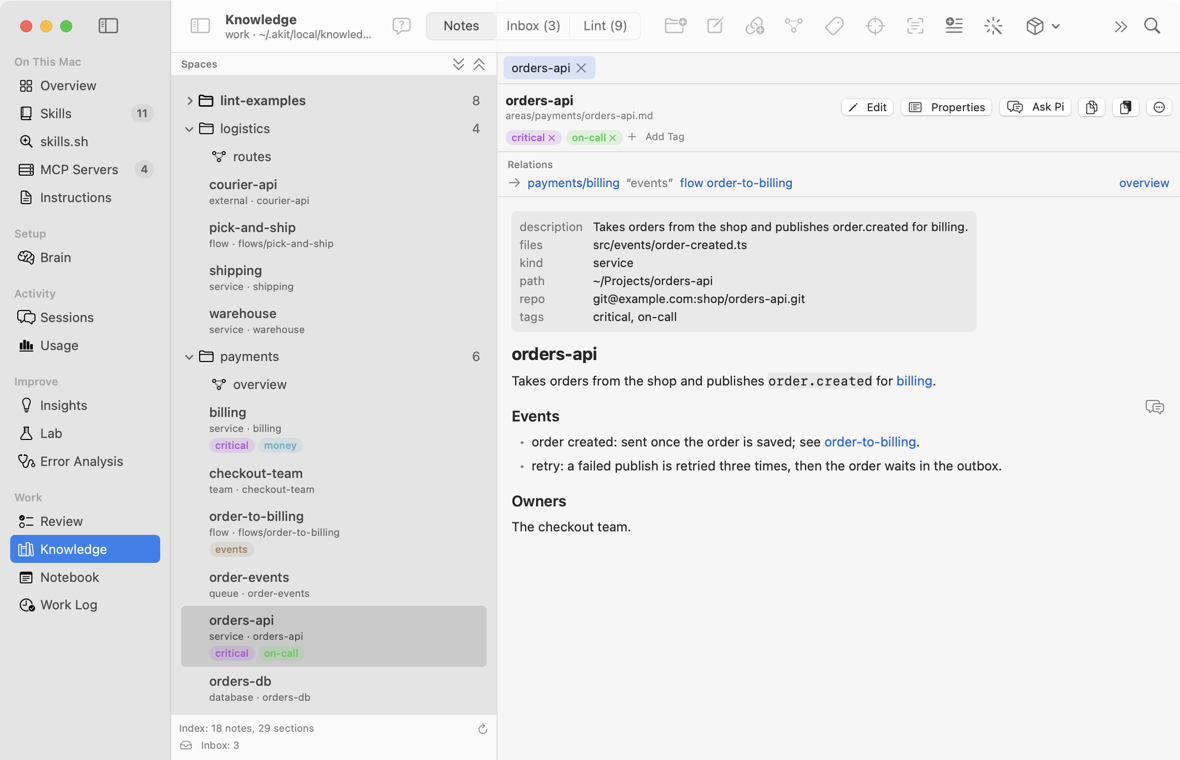
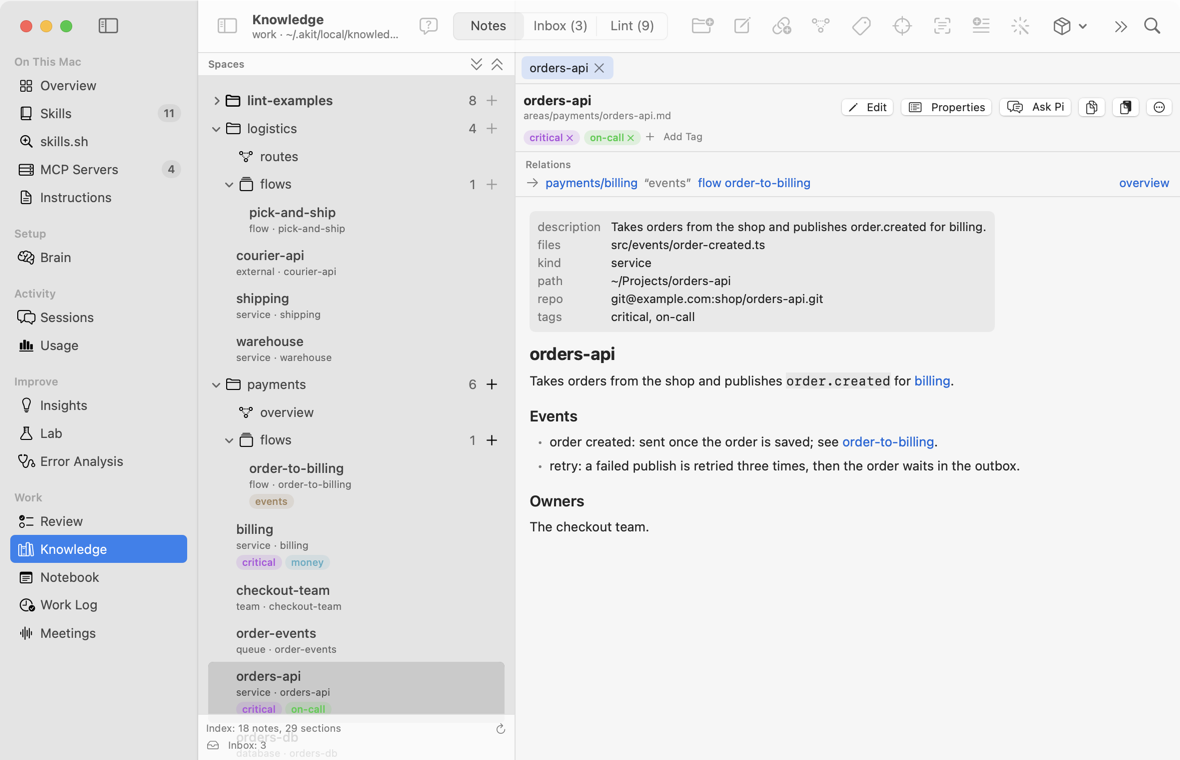
Knowledge: note rows keep one tag line, so rows never overlap
A note with many tags wrapped them, so its row's height followed the
list's width; the list kept the old height and drew the row over its
neighbours. Tags now take one line, the rest as +N.

diff --git a/AKit/Knowledge/TagViews.swift b/AKit/Knowledge/TagViews.swift
@@ -33,6 +33,29 @@ struct TagBadge: View {
 }
 
 /// Lays its views out in rows, starting a new row when the next one doesn't fit.
+/// A note row's tags on one line: as many as fit, the rest as "+N". The list keeps a row's
+/// height from before a resize, so a row whose height follows its width (tags wrapping) was drawn
+/// over its neighbours; one line is always the same height.
+struct TagLine: View {
+    let tags: [String]
+
+    var body: some View {
+        ViewThatFits(in: .horizontal) {
+            ForEach(Array(stride(from: tags.count, through: 0, by: -1)), id: \.self) { shown in
+                HStack(spacing: 3) {
+                    ForEach(tags.prefix(shown), id: \.self) { TagBadge(tag: $0) }
+                    if shown < tags.count {
+                        Text("+\(tags.count - shown)").font(.caption2).foregroundStyle(.secondary).fixedSize()
+                    }
+                }
+                .fixedSize()
+            }
+        }
+        .frame(maxWidth: .infinity, alignment: .leading)
+        .help(tags.map { "#" + $0 }.joined(separator: " "))
+    }
+}
+
 struct WrapLayout: Layout {
     var spacing: CGFloat = 4
 

diff --git a/AKit/Knowledge/KnowledgeView.swift b/AKit/Knowledge/KnowledgeView.swift
@@ -451,10 +451,7 @@ struct KnowledgeView: View {
             Text([note.kind, note.id.split(separator: "/").dropFirst(note.group == nil ? 1 : 2).joined(separator: "/")].compactMap(\.self).joined(separator: " · "))
                 .font(.caption).foregroundStyle(.secondary).lineLimit(1)
             if !note.tags.isEmpty {
-                WrapLayout(spacing: 3) {
-                    ForEach(note.tags, id: \.self) { TagBadge(tag: $0) }
-                }
-                .padding(.top, 1)
+                TagLine(tags: note.tags).padding(.top, 1)
             }
         }
         .padding(.vertical, 2)

diff --git a/docs/design/knowledge.md b/docs/design/knowledge.md
@@ -77,7 +77,7 @@ describe the system once, by hand, and let the agent read it.
 | K32 | Pi proposes changes from Ask Pi | Added 2026-10-31 at the user's request: in Ask Pi, Pi may change the base, but only as a proposal the user approves after seeing the diff: the existing `akit kb propose` flow (K14). The system prompt (replacing K30's "change nothing") says: never edit, write, move or delete files and don't commit; when the user asks to change, fix or add something in the base (or agrees that the note is wrong), run `akit kb propose --base <base> --author pi --note AREA/NAME --stdin --reason …` (for an existing note the changed `## Heading` sections, as the proposal format requires; for a new note its whole text; `--set` for a field) or `--arrow`. `--exclude-tools edit,write` stays. An answer's proposals are those new in `inbox/` since the question was sent **and** named in that answer's own json stream (the propose output prints the id), so another session's proposal never shows; their ids are stored in the entry (`proposals` in `chat.jsonl`). Each shows as a card under the answer: target, reason, checks, the diff Accept writes, and Accept… / Reject… / Show in Inbox, the Inbox's own actions and confirmations; after Accept the open note reloads. A card follows its proposal: pending while it is in `inbox/`, else Accepted (a commit "(accept proposal ID)" or "Close proposal ID") or Rejected or removed (`KnowledgeBase.state(ofProposal:)`). Also: the note header never cuts a label: `ViewThatFits` shows Copy, Paste, Open in Obsidian, Rename…, Delete… titled, else Copy and Paste as icons and the rest in a **More** menu, else all in the menu; Edit, Properties and Ask Pi stay titled |
 | K33 | Ask Pi review fixes | 2026-10-31, after a review of K29–K32: Open in Pi's script prints the note id with `printf '%s\n'` and a quoted argument (no id in a comment), so a hostile file name runs nothing. On a work Mac, when Pi runs in a space's project folder (not the base folder), the destination must also pass `.code(.pi)` (the allowed list): the project's code could reach it; else nothing is sent and the message says to pick an allowed provider. Every Ask Pi that started Pi is in the send log (also stopped or timed out), with the system prompt counted. Pi's streams are masked as JSON (`JSONMask`, moved down from `ReviewMask`), and Review and Ask Pi share one Pi runner (`PiJSONStream.run`). The panel puts a refused question back only into the chat it was asked in, and a title change of the open note doesn't stop Pi. A space dragged down goes after the one it is dropped on (`move(space:onto:)`), `.spaces.json` is written inside the base's git lock, a space deleted while the order can't be written is still committed (the message says so), and fold state of spaces that are gone isn't saved. Round 2: proposal ids are reused once a proposal leaves `inbox/`, so an answer stores each proposal as `{id, created}` (old plain ids still read); a card binds only to the inbox file with that `created`, and counts it accepted only by the oldest accept commit at or after `created` and before the chat's next proposal with that id (`state(ofProposal:created:before:)`). An answer's proposals are only the `inbox/<id>.md` paths printed by its own `bash` calls that ran `kb propose` (matched by call id), and new since the question (a plain file listing, no checks). The base folder in the system prompt is shell-quoted. A space's deletion writes the order under the git lock. A question still stopping in a chat you left shows only there |
 | K34 | Ask Pi log and thinking | Added 2026-10-31 at the user's request. **Log…** under each answer, and in the panel header for the whole chat, opens **Ask Pi Log**: how Pi was called and what it did. Each question writes `streams/qN.call.json` (masked): the arguments as run (the last one the prompt sent), working folder, model, thinking, fork and session files, start, end, exit status, error, usage, and when each tool call started and ended (noted as the stream's lines arrive). `KnowledgeAskLog` (AKitLab) reads the saved stream into steps: tool calls (start and end matched by `toolCallId`, else by tool name, else order) with arguments, result, error and time; the assistant's text and thinking; a model error. Copy Full Log (plain, masked, uncut), Show in Finder (the chat folder), Open Stream. Answers saved before show their stream without a call record. A **Thinking** picker beside Model passes `--thinking`; the level is remembered per model (`knowledgeAsk.thinkingByModel`), a model never used gets Lab's default Pi level (else `medium`). Each answer stores its model and thinking (shown under it). After review: what Pi read from a file that usually holds secrets (`SecretFilter.isSecretFile`: `.env`, `auth.json`, Pi's `mcp.json`…) is hidden as the session viewers do (`PiSecretFiles`), before the stream reaches the disk and again when it is read; `JSONMask` masks a value whose key names a secret (api key, token, secret, password, credential, authorization, cookie), in Review too. Tool times are kept by `toolCallId`; an end with no start is its own step; results are kept up to 200,000 characters in the sheet (Copy Full Log rereads them whole, off the main thread); a question never overwrites the files of one whose entry wasn't saved. After verification: every result shape of a secret call (a `toolResult` message with its `details.truncation` copy and `structuredContent` path, `turn_end.toolResults[]`, `agent_end.messages[]`, updates) keeps only role, call id, tool name, error flag, time and a hidden marker; a result without a call id follows the tool's last call without one; `SecretFilter` also counts globs that can name a secret file (`.e*`, `auth.*`, as the shell expands them) and an adapter's inner `args`/`arguments`. Pi's own session files in the chat's `sessions/` hold the raw tool output, like any Pi session in `~/.pi`; AKit shows only their path |
-| K35 | Collapse All and note tags | Added 2026-11-02 at the user's request. Over the note list a **Spaces** strip with **Expand All** and **Collapse All** (⌥⌘←); the same two in a space's context menu. **Tags**: free-text badges on a note, kept as `tags: [a, b]` in its frontmatter (Obsidian's property; a string split at commas and spaces is read too; `#` dropped, spaces become `-`). A tag's color is a stable hash of its lowercased text (FNV-1a, 10 colors), so it is the same on every note and Mac. **Add Tag** under the note's title suggests the base's tags (most used first, then those containing the typed text); a tag another note has keeps its spelling. Tags show in the note list under each note and in `kb notes --json` (`tags`); Properties leaves `tags` to the badges |
+| K35 | Collapse All and note tags | Added 2026-11-02 at the user's request. Over the note list a **Spaces** strip with **Expand All** and **Collapse All** (⌥⌘←); the same two in a space's context menu. **Tags**: free-text badges on a note, kept as `tags: [a, b]` in its frontmatter (Obsidian's property; a string split at commas and spaces is read too; `#` dropped, spaces become `-`). A tag's color is a stable hash of its lowercased text (FNV-1a, 10 colors), so it is the same on every note and Mac. **Add Tag** under the note's title suggests the base's tags (most used first, then those containing the typed text); a tag another note has keeps its spelling. Tags show in the note list under each note and in `kb notes --json` (`tags`); Properties leaves `tags` to the badges | 2026-11-08: the list's rows overlapped when a note had many tags (wrapped tags made a row's height follow its width, and the list kept old heights); the row now shows its tags on one line, the rest as "+N", the full list in its tooltip.
 | K36 | Add to Note | Added 2026-11-07 at the user's request: **Add to Note** under each Ask Pi answer sends Pi a fixed follow-up (`KnowledgeAsk.addToNoteQuestion`): work what answer qN said into the open note, in its sections, style and language, no copy of the answer and nothing the note already says, as `akit kb propose --note <id>`; the card with the diff shows under the new answer as in K32. The question names the answer by id and quotes its first 160 characters; Pi has the answer through the fork. The user's draft and passage stay. Pi keeps its whole setup (MCP, skills, extensions, context files); only `edit,write` stay excluded |
 | K37 | Groups in a space | Added 2026-11-07 at the user's request (one flat list per space grew too long): a **group** is a folder of a space, `areas/<space>/<group>/`, except `maps/`. The note list shows a space's maps, then its groups, each foldable like a space with its note count, then the notes at the space's top. Folded groups are remembered per base on this Mac (UserDefaults, `area/group`); a group is unfolded until folded, and opening a note unfolds its group. **New Group…** in a space's menu makes the folder (nothing to commit, like New Area…); **New Note…** has a **Group** picker, and a group's menu has New Note…, Show in Finder and Delete… (the folder to the Trash, one commit). A note dropped on a group, or **Move to Group** in its menu, is a rename to `space/group/name` (links fixed, one commit); dropped on a space it goes to the space's top. One level: deeper folders stay inside their group. `akit kb new-note AREA NAME --group G` |
 | K38 | Backup to the brain | Added 2026-11-07 at the user's request (a personal Mac, brain on a private GitHub repo): at each brain Sync (`akit sync`, Brain → Sync), before the pull and push, `BrainBackup` (AKitKnowledge) mirrors the text files of every base of this Mac (not the sample base, which has `.akit-seed.json`) into the brain's `knowledge/<world>/` and makes one brain commit "Back up knowledge and meetings" of just those paths (the brain's commit style); nothing changed, no commit. A one-way copy: the base stays where it is with its own git without a remote (K11), nothing is read back. Allow-list: `kb.yaml`, `.spaces.json`, `areas/**/*.md`, `*.excalidraw`, `*.yaml`, `notebook/*.md`, `notebook/.tabs.json`, `notebook/drawings/*.excalidraw`, `worklog/**/*.md`; never the index, locks, `.akit-pending.json`, the miss log, `inbox/`, `.obsidian/`, `.git/`, pictures or SVGs, hidden files, files over 5 MB or files that look like they hold a key or token (named in the result). Deleted notes leave the copy; a world whose base isn't on this Mac keeps its copy. Never on a work Mac or with a machine.json that can't be read ("Knowledge and meetings are not backed up on a work Mac."). A failure is one line in the Sync result; the pull and push still run. Off with Settings → Brain repo → Back up knowledge and meetings to the brain (`~/.akit/local/backup.json`, on by default). The meetings are copied the same way (meetings.md M36) |
